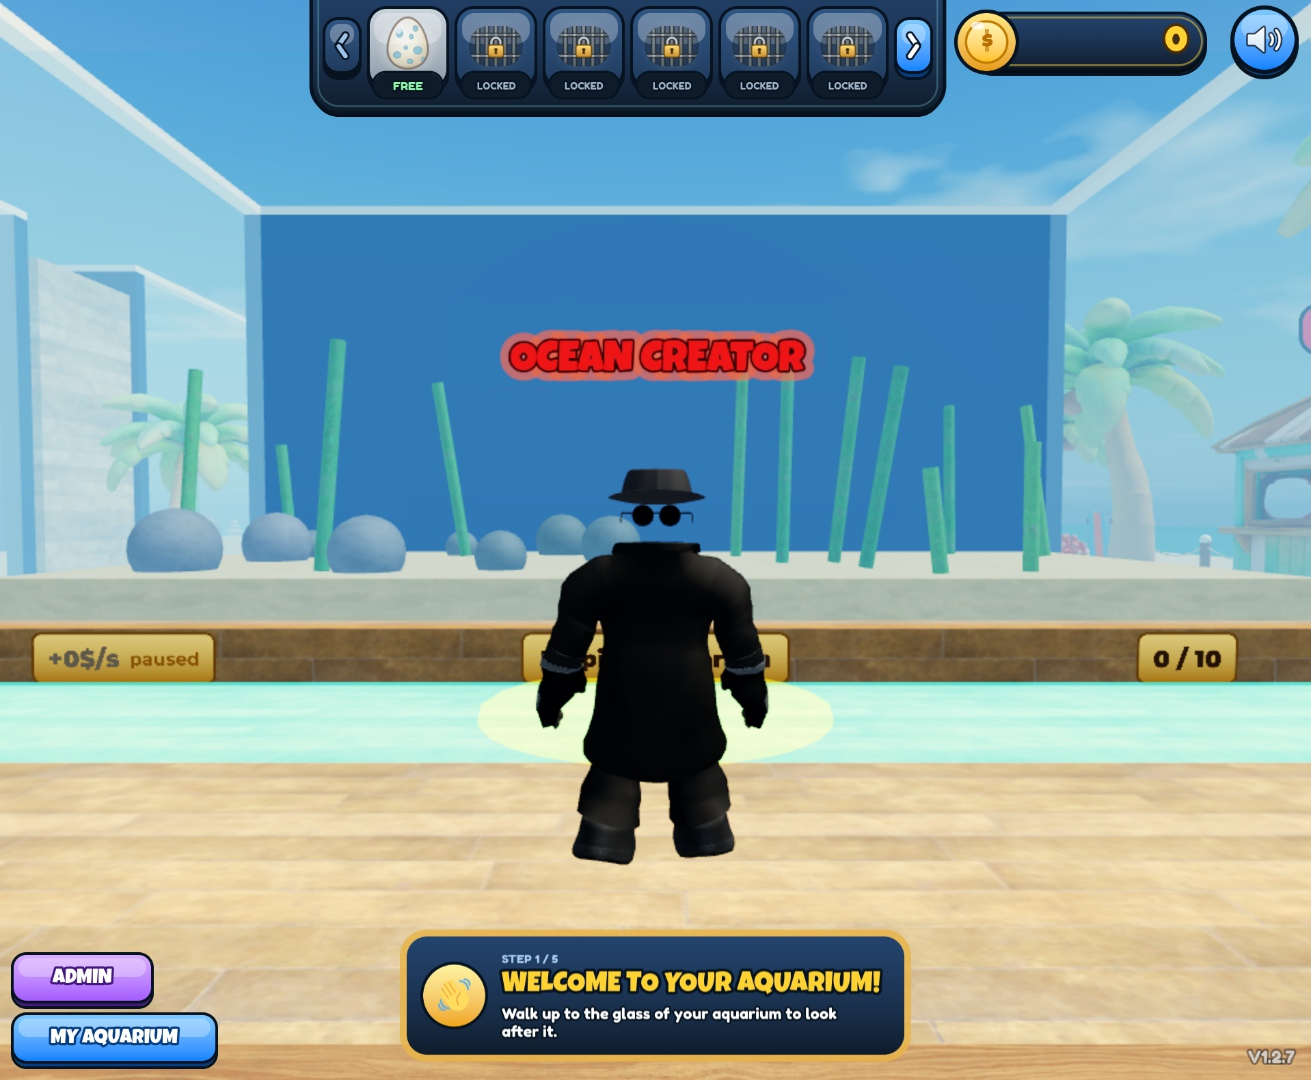
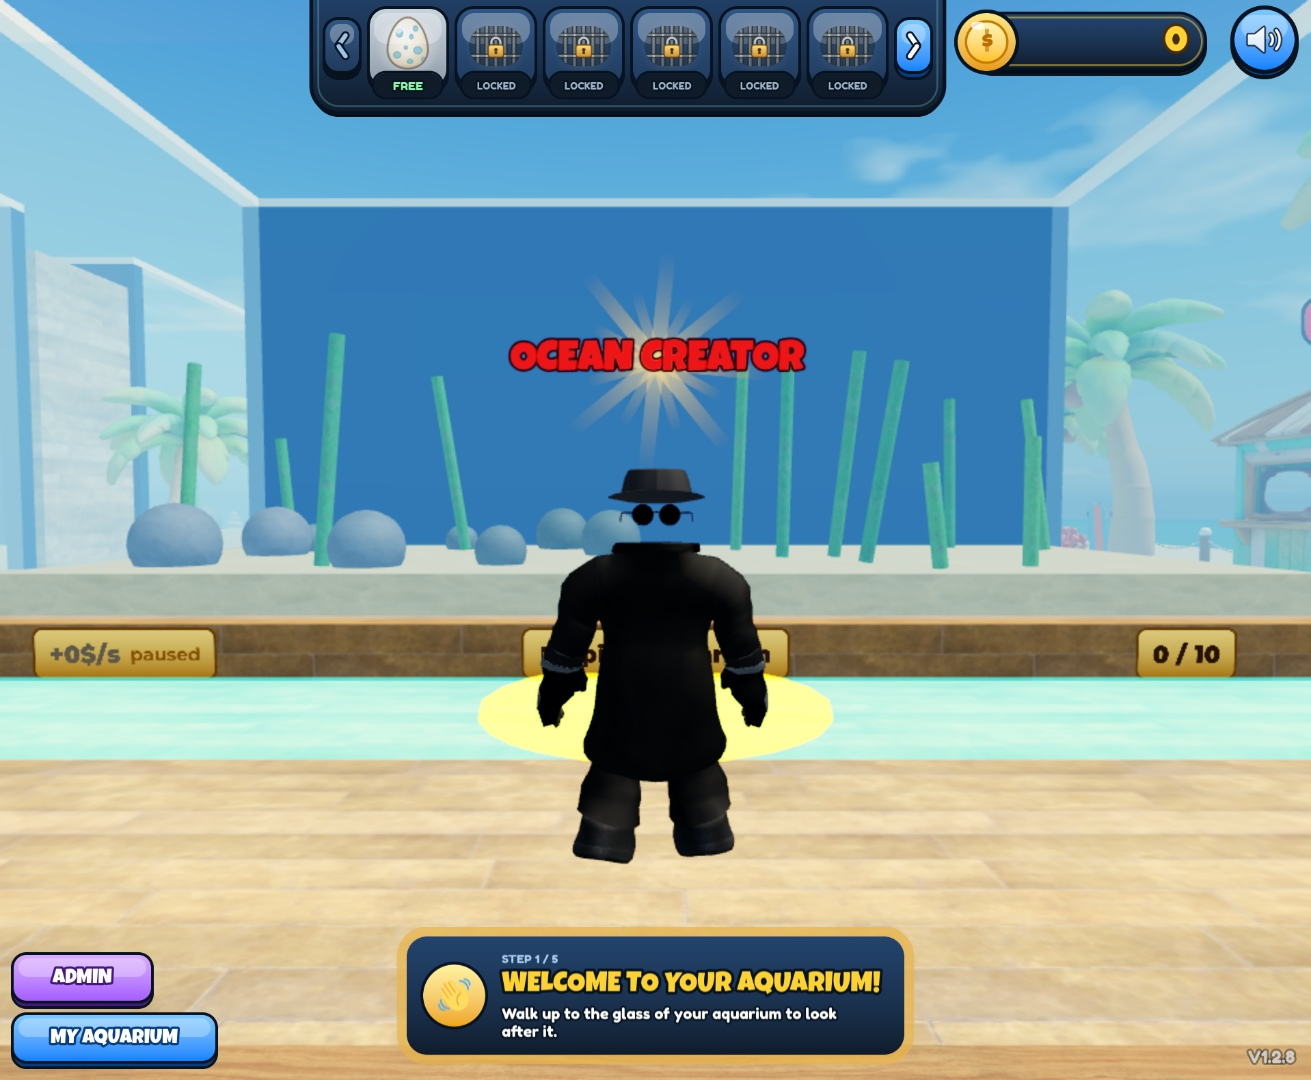
V1.2.9: the Ocean Creator title over turning sun rays
- TitleService.buildCreator: 8 bars through the centre (long / short, UIGradient yellow to orange, fading to their
  tips, tagged TitleRay with their resting Angle) behind the red text, in a 6 x 3.6 stud billboard
- TitleRaysController (replaces TitleAuraController): turns them 14 deg/s and shimmers each on its own phase
- design/previews/ocean-creator-title.jpg updated

diff --git a/src/server/services/TitleService.ts b/src/server/services/TitleService.ts
@@ -3,7 +3,8 @@ import { Lifecycle } from "shared/framework";
 import {
 	COSMETICS,
 	CosmeticId,
-	CREATOR_AURA_COLOR,
+	CREATOR_RAY_CENTER_COLOR,
+	CREATOR_RAY_TIP_COLOR,
 	CREATOR_TITLE,
 	CREATOR_TITLE_COLOR,
 	EARNED_TITLE_COLOR,
@@ -28,6 +29,13 @@ const CHECK_INTERVAL = 1;
 const BILLBOARD_NAME = "PlayerTitle";
 const OUTLINE = Color3.fromHex("#071320");
 const WHITE = new Color3(1, 1, 1);
+// The creator's title (studs): its text as tall as the earned ones' a bit bigger, in a taller billboard for the sun rays
+const CREATOR_TEXT_WIDTH = 4.8;
+const CREATOR_TEXT_HEIGHT = 0.75;
+const CREATOR_BILLBOARD_WIDTH = 6;
+const CREATOR_BILLBOARD_HEIGHT = 3.6; // the rays' span
+/** Bars through the centre for each ray length: twice as many ray tips per length. */
+const CREATOR_RAY_BARS = 4;
 
 // Leaderboard nameplate, laid out in design pixels (FigCraft leaderboards.figcraft, Plate_*) and drawn in scale, so the
 // billboard keeps its size in studs: a pill of PLATE_HEIGHT px, a rank badge overhanging its left end, the board's icon
@@ -111,37 +119,74 @@ class TitleServiceSingleton implements Lifecycle {
 	}
 
 	/**
-	 * The creator's title: bright red letters with a dark outline, over the same text drawn with a wide, soft, lighter red
-	 * stroke (its aura, tagged TitleAura: each client pulses it, TitleAuraController). A little bigger than the earned ones.
+	 * The creator's title: bright red letters with a dark outline over a burst of sun rays (16 tips: 4 long and 4 short
+	 * bars through the centre, each fading toward its ends, tagged TitleRay: each client turns and shimmers them,
+	 * TitleRaysController). The billboard is taller for the rays; the text sits in its middle, where the others' does.
 	 */
 	private buildCreator(head: BasePart, title: CosmeticId) {
-		const billboard = this.billboard(UDim2.fromScale(4.8, 0.75));
-		const text = COSMETICS[title].displayName.upper();
-		const layer = (name: string, zIndex: number) => {
-			const label = new Instance("TextLabel");
-			label.Name = name;
-			label.Size = UDim2.fromScale(1, 1);
-			label.BackgroundTransparency = 1;
-			label.Font = Enum.Font.LuckiestGuy;
-			label.Text = text;
-			label.TextScaled = true;
-			label.ZIndex = zIndex;
-			label.Parent = billboard;
-			return label;
-		};
-		const aura = layer("Aura", 1);
-		aura.TextColor3 = CREATOR_AURA_COLOR;
-		aura.TextTransparency = 0.35;
-		const glow = new Instance("UIStroke");
-		glow.Color = CREATOR_AURA_COLOR;
-		glow.Thickness = 7;
-		glow.Transparency = 0.55;
-		glow.LineJoinMode = Enum.LineJoinMode.Round;
-		glow.Parent = aura;
-		glow.AddTag(TAGS.TitleAura);
-		const front = layer("Title", 2);
-		front.TextColor3 = CREATOR_TITLE_COLOR;
-		this.stroke(front, Color3.fromHex("#3A0505"), 2);
+		const billboard = this.billboard(UDim2.fromScale(CREATOR_BILLBOARD_WIDTH, CREATOR_BILLBOARD_HEIGHT));
+		const rays = new Instance("Frame");
+		rays.Name = "Rays";
+		rays.AnchorPoint = new Vector2(0.5, 0.5);
+		rays.Position = UDim2.fromScale(0.5, 0.5);
+		rays.Size = UDim2.fromScale(1, 1);
+		rays.BackgroundTransparency = 1;
+		rays.ZIndex = 1;
+		const square = new Instance("UIAspectRatioConstraint");
+		square.AspectRatio = 1;
+		square.DominantAxis = Enum.DominantAxis.Height;
+		square.Parent = rays;
+		rays.Parent = billboard;
+		for (let i = 0; i < CREATOR_RAY_BARS * 2; i++) {
+			const long = i % 2 === 0;
+			const ray = new Instance("Frame");
+			ray.Name = `Ray${i}`;
+			ray.AnchorPoint = new Vector2(0.5, 0.5);
+			ray.Position = UDim2.fromScale(0.5, 0.5);
+			ray.Size = long ? UDim2.fromScale(0.07, 1) : UDim2.fromScale(0.05, 0.66);
+			ray.BackgroundColor3 = WHITE;
+			ray.BorderSizePixel = 0;
+			const angle = (i * 180) / (CREATOR_RAY_BARS * 2);
+			ray.Rotation = angle;
+			ray.SetAttribute("Angle", angle);
+			ray.ZIndex = 1;
+			const corner = new Instance("UICorner");
+			corner.CornerRadius = new UDim(0.5, 0);
+			corner.Parent = ray;
+			const gradient = new Instance("UIGradient");
+			gradient.Rotation = 90; // along the bar
+			gradient.Color = new ColorSequence([
+				new ColorSequenceKeypoint(0, CREATOR_RAY_TIP_COLOR),
+				new ColorSequenceKeypoint(0.5, CREATOR_RAY_CENTER_COLOR),
+				new ColorSequenceKeypoint(1, CREATOR_RAY_TIP_COLOR),
+			]);
+			gradient.Transparency = new NumberSequence([
+				new NumberSequenceKeypoint(0, 1),
+				new NumberSequenceKeypoint(0.3, 0.6),
+				new NumberSequenceKeypoint(0.5, 0.2),
+				new NumberSequenceKeypoint(0.7, 0.6),
+				new NumberSequenceKeypoint(1, 1),
+			]);
+			gradient.Parent = ray;
+			ray.AddTag(TAGS.TitleRay);
+			ray.Parent = rays;
+		}
+		const label = new Instance("TextLabel");
+		label.Name = "Title";
+		label.AnchorPoint = new Vector2(0.5, 0.5);
+		label.Position = UDim2.fromScale(0.5, 0.5);
+		label.Size = UDim2.fromScale(
+			CREATOR_TEXT_WIDTH / CREATOR_BILLBOARD_WIDTH,
+			CREATOR_TEXT_HEIGHT / CREATOR_BILLBOARD_HEIGHT,
+		);
+		label.BackgroundTransparency = 1;
+		label.Font = Enum.Font.LuckiestGuy;
+		label.Text = COSMETICS[title].displayName.upper();
+		label.TextScaled = true;
+		label.TextColor3 = CREATOR_TITLE_COLOR;
+		label.ZIndex = 3;
+		this.stroke(label, Color3.fromHex("#3A0505"), 2);
+		label.Parent = billboard;
 		billboard.Parent = head;
 	}
 

diff --git a/src/client/controllers/TitleRaysController.ts b/src/client/controllers/TitleRaysController.ts
@@ -1,0 +1,39 @@
+import { CollectionService, RunService } from "@rbxts/services";
+import { Lifecycle } from "shared/framework";
+import { TAGS } from "shared/tags";
+
+/** Degrees a second the sun rays turn. */
+const TURN_SPEED = 14;
+/** The rays shimmer: each one fades a little in and out, on its own phase. */
+const SHIMMER_PERIOD = 1.4;
+const SHIMMER_DEPTH = 0.35;
+
+/**
+ * The sun rays behind the creator's title (TitleService: Frames tagged TitleRay, attribute "Angle"): each client turns
+ * them slowly and makes them shimmer, every frame, so the burst moves smoothly for every viewer (a server change would
+ * replicate in steps).
+ */
+class TitleRaysControllerSingleton implements Lifecycle {
+	public onInit() {}
+
+	public onStart() {
+		print("[Client] TitleRaysController started.");
+		RunService.RenderStepped.Connect(() => {
+			const rays = CollectionService.GetTagged(TAGS.TitleRay);
+			if (rays.size() === 0) return;
+			const clock = os.clock();
+			const turn = (clock * TURN_SPEED) % 360;
+			for (const ray of rays) {
+				if (!ray.IsA("Frame")) continue;
+				const angle = ray.GetAttribute("Angle");
+				const base = typeIs(angle, "number") ? angle : 0;
+				ray.Rotation = base + turn;
+				const phase = (base / 180) * math.pi * 2;
+				ray.BackgroundTransparency =
+					((math.sin((clock / SHIMMER_PERIOD) * math.pi * 2 + phase) + 1) / 2) * SHIMMER_DEPTH;
+			}
+		});
+	}
+}
+
+export const TitleRaysController = new TitleRaysControllerSingleton();

diff --git a/src/shared/types/cosmetics.ts b/src/shared/types/cosmetics.ts
@@ -239,10 +239,14 @@ export const TITLE_RANK_ATTRIBUTE = "TitleRank";
 /** Gold of the earned titles: their text above the head and their tag in the chat. */
 export const EARNED_TITLE_COLOR = Color3.fromHex("#FFD54A");
 
-/** The creator's title (COSMETICS creator): bright red text, its aura a lighter red that pulses (TitleAuraController). */
+/**
+ * The creator's title (COSMETICS creator): bright red text over a burst of sun rays, warm yellow at the centre and
+ * orange toward their tips, that turn slowly and shimmer (TitleRaysController).
+ */
 export const CREATOR_TITLE: CosmeticId = "TitleOceanCreator";
 export const CREATOR_TITLE_COLOR = Color3.fromHex("#FF2B2B");
-export const CREATOR_AURA_COLOR = Color3.fromHex("#FF6A4D");
+export const CREATOR_RAY_CENTER_COLOR = Color3.fromHex("#FFF1A8");
+export const CREATOR_RAY_TIP_COLOR = Color3.fromHex("#FF9A3C");
 
 export function isCreatorTitle(id: CosmeticId): boolean {
 	return COSMETICS[id].creator === true;

diff --git a/src/client/main.client.ts b/src/client/main.client.ts
@@ -5,7 +5,7 @@ import { StarfallEventController } from "./controllers/StarfallEventController";
 import { AquariumInteractionController } from "./controllers/AquariumInteractionController";
 import { AudioController } from "./controllers/AudioController";
 import { AuroraRimsController } from "./controllers/AuroraRimsController";
-import { TitleAuraController } from "./controllers/TitleAuraController";
+import { TitleRaysController } from "./controllers/TitleRaysController";
 import { ChatTitleController } from "./controllers/ChatTitleController";
 import { CapacityPlaqueController } from "./controllers/CapacityPlaqueController";
 import { IncomePlaqueController } from "./controllers/IncomePlaqueController";
@@ -51,5 +51,5 @@ bootstrap([
 	StatsReportController,
 	ChatTitleController,
 	AuroraRimsController,
-	TitleAuraController,
+	TitleRaysController,
 ]);

diff --git a/src/shared/tags.ts b/src/shared/tags.ts
@@ -8,10 +8,10 @@ export const TAGS = {
 	 */
 	GlowRim: "GlowRim",
 	/**
-	 * The aura of the creator's title above their head (TitleService, a TextLabel's UIStroke): each client pulses it
-	 * (TitleAuraController).
+	 * One sun ray behind the creator's title above their head (TitleService, a Frame; attribute "Angle": its resting
+	 * rotation in degrees): each client turns and shimmers them (TitleRaysController).
 	 */
-	TitleAura: "TitleAura",
+	TitleRay: "TitleRay",
 	/** The water volume of an aquarium. Clicking it drops food. */
 	AquariumWater: "AquariumWater",
 	/**

diff --git a/src/shared/version.ts b/src/shared/version.ts
@@ -1,5 +1,5 @@
 /** The game's patch, the top one of RELEASE_NOTES.md: bump it with every new patch (CLAUDE.md §0b). */
-export const GAME_VERSION = "1.2.8";
+export const GAME_VERSION = "1.2.9";
 
 /** Shown in a corner of the screen (App): "V1.0.0". */
 export function getVersionLabel(): string {

diff --git a/PROJECT_CONTEXT.md b/PROJECT_CONTEXT.md
@@ -4,7 +4,7 @@
 > whenever you add / rename / remove a file, a service, a remote, a PlayerData field, a tag or a game system.**
 > It describes the game **as it is now**: the history of each change goes in `RELEASE_NOTES.md`, the numbers in
 > `BALANCE.md`; don't copy them here.
-> Last updated: 2026-11-08 (V1.2.8: the creator's title Ocean Creator, red with a pulsing aura; V1.2.7: the Alien Fish says "tchiki").
+> Last updated: 2026-11-08 (V1.2.9: the Ocean Creator title over turning sun rays instead of an aura; V1.2.8: the creator's title).
 
 **The game.** An incremental aquarium game on Roblox. Each player owns one of 6 aquariums placed around a
 beach lobby. They walk up to the glass to enter a 2.5D "focus" view. In that view they buy eggs, which hatch
@@ -265,7 +265,8 @@ ProjectQuarium/
    │     │                   then the earned ones in TITLE_ORDER), getBestTitle, getTitleRank, getDisplayedTitle
    │     ├─ cosmetics.ts     CosmeticId / COSMETICS (kind Title / Decor / Finish; `leaderboard` on the three leaderboard
    │     │                   titles TitleOceanLegend / TitleTankTycoon / TitleDevotedKeeper, never in PlayerData.cosmetics;
-   │     │                   `creator` on TitleOceanCreator, the creator's own: CREATOR_TITLE, CREATOR_TITLE_COLOR red),
+   │     │                   `creator` on TitleOceanCreator, the creator's own: CREATOR_TITLE, CREATOR_TITLE_COLOR red,
+   │     │                   CREATOR_RAY_CENTER_COLOR / CREATOR_RAY_TIP_COLOR its sun rays),
    │     │                   TITLE_ORDER (earned titles), LEADERBOARD_TITLES, isLeaderboardTitle, DECOR_SLOTS (tank-local
    │     │                   position per decor id; a group's decor share one spot: Statue = Whale Statue / Pearl Throne, Trophy, Incubator = Golden / Diamond), isDecor, TITLE_ATTRIBUTE / TITLE_RANK_ATTRIBUTE, EARNED_TITLE_COLOR
    │     ├─ gamepasses.ts    GamePass / GAME_PASSES (name, shop text, Roblox id, icon, badge, shopOrder), getShopPasses,
@@ -480,8 +481,9 @@ ProjectQuarium/
    │     │                   stud tall); MaxDistance 120, rebuilt when the title or its rank changes, removed without one;
    │     │                   also sets the Player attributes `Title` / `TitleRank` (the chat tag). The creator's title
    │     │                   (Ocean Creator): given at each load to isCreator only (worn the first time, taken from anyone
-   │     │                   else), first in getOwnedTitles; bright red text over a lighter red copy whose UIStroke is
-   │     │                   tagged `TitleAura` (4.8 × 0.75 studs)
+   │     │                   else), first in getOwnedTitles; bright red text (4.8 × 0.75 studs) over a burst of sun rays
+   │     │                   (8 bars through the centre, long / short, yellow to orange, fading to their tips, tagged
+   │     │                   `TitleRay` with attribute Angle) in a 6 × 3.6 billboard
    │     ├─ GamePassService  The only writer of PlayerData.passes: at join asks Roblox for each pass on sale
    │     │                   (UserOwnsGamePassAsync, 3 tries; no answer keeps the saved state; passes without an id are
    │     │                   dropped), grants a purchase from PromptGamePassPurchaseFinished (thank-you Reward),
@@ -581,8 +583,8 @@ ProjectQuarium/
       │  ├─ AuroraRimsController  The glowing rims cosmetics (V1.2): drifts the Neon colour of every rim tagged `GlowRim`
       │  │                   (AquariumService.applyTheme tags them) through its `RimFinish` palette (Aurora: the northern
       │  │                   lights; Galaxy: night blue, violet, pink), 20 updates a second
-      │  ├─ TitleAuraController  Pulses the creator title's aura (UIStrokes tagged `TitleAura`): thickness 5-10 and
-      │  │                   transparency on a 1.6 s sine, every frame, locally
+      │  ├─ TitleRaysController  Turns the creator title's sun rays (Frames tagged `TitleRay`, 14°/s) and shimmers each
+      │  │                   one on its own phase (1.4 s), every frame, locally
       │  ├─ PelicanChargesController  Charge gauge above the local player's on-demand Pelican / Jellyfish (BillboardGui): one
       │  │                   slot per charge, a pellet growing while it refills; hidden while MaxCharges is 0
       │  ├─ ChatTitleController  TextChatService.OnIncomingMessage: the sender's title as a coloured tag before their name in

diff --git a/RELEASE_NOTES.md b/RELEASE_NOTES.md
@@ -11,6 +11,14 @@ Every change to the game, patch by patch. The newest version is at the top.
 
 ---
 
+## V1.2.9 — 2026-11-08
+
+**Changes**
+- The Ocean Creator title shines over a burst of sun rays, yellow to orange, that turn slowly and shimmer (instead of
+  a red aura).
+
+---
+
 ## V1.2.8 — 2026-11-08
 
 **New**
